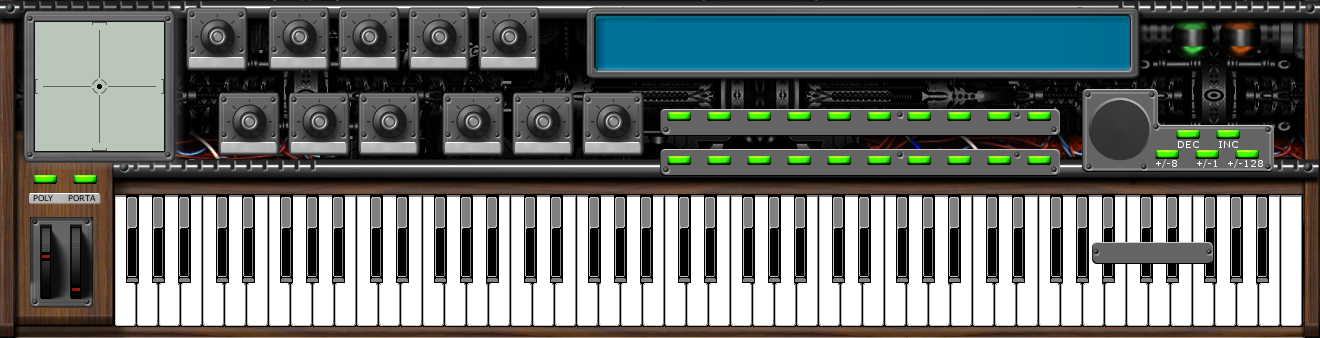
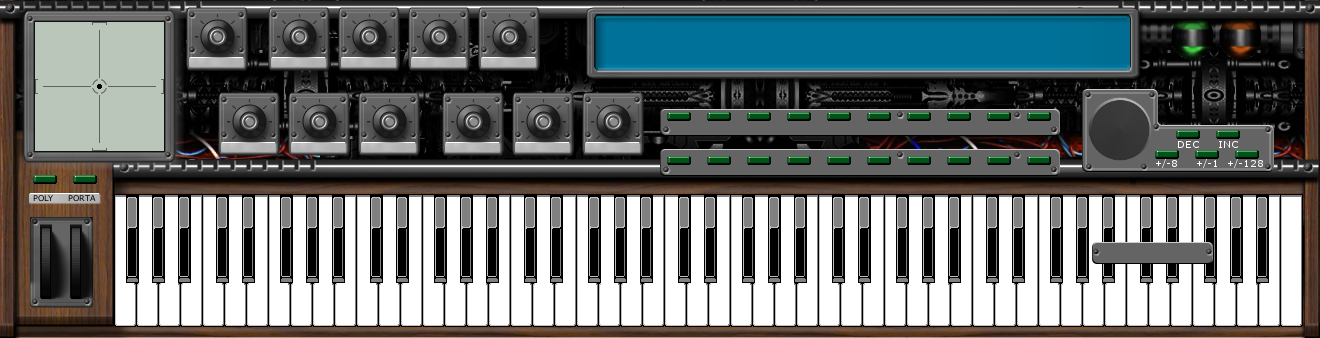
Work-in-progress on CommandCentre graphics and positioning.

diff --git a/code/lunar_prolog_control_panel.cpp b/code/lunar_prolog_control_panel.cpp
@@ -229,18 +229,18 @@ public:
 	program7 (point (947.0, 156.0), 107, resources, active),
 	program8 (point (987.0, 156.0), 108, resources, active),
 	program9 (point (1027.0, 156.0), 109, resources, active),
-	sub_one (point (1040.0, 140.0), 302, resources, active),
-	add_one (point (1080.0, 140.0), 301, resources, active),
-	delta_1 (point (1020.0, 160.0), 303, resources, active),
-	delta_8 (point (1060.0, 160.0), 304, resources, active),
-	delta_128 (point (1100.0, 160.0), 305, resources, active),
-	encoder (point (944.0, 110.0), 401, resources, active),
+	sub_one (point (1175.0, 140.0), 302, resources, true),
+	add_one (point (1215.0, 140.0), 301, resources, true),
+	delta_1 (point (1155.0, 160.0), 303, resources, true),
+	delta_8 (point (1195.0, 160.0), 304, resources, true),
+	delta_128 (point (1235.0, 160.0), 305, resources, true),
+	encoder (point (1100.0, 100.0), 401, resources, true),
 	pitch (point (42.0, 228.0), 501, true, resources, false),
 	modulation (point (72.0, 228.0), 502, false, resources, true),
 	poly_mono (point (33.0, 175.0), 503, resources, active),
 	porta_on_off (point (73.0, 175.0), 504, resources, active),
-	store (point (1040.0, 110.0), 601, resources, true),
-	restore (point (1080.0, 110.0), 602, resources, true)
+	store (point (1240.0, 110.0), 601, resources, true),
+	restore (point (1280.0, 110.0), 602, resources, true)
 	{
 		command_centre_image = resources != 0 ? resources -> command_centre : 0;
 		pitch . position = 0.5;
@@ -500,7 +500,7 @@ bool control_panel_class :: code (PrologElement * parameters, PrologResolution *
 	if (atom -> isVar ()) atom -> setAtom (new PrologAtom ());
 	if (! atom -> isAtom ()) return false;
 	if (atom -> getAtom () -> getMachine () != 0) return false;
-	control_panel_action * machine = new control_panel_action (resources, root, directory, atom -> getAtom (), command -> getAtom (), true);
+	control_panel_action * machine = new control_panel_action (resources, root, directory, atom -> getAtom (), command -> getAtom (), false);
 	if (! atom -> getAtom () -> setMachine (machine)) {delete machine; return false;}
 	g_idle_add ((GSourceFunc) CreateControlPanelIdleCode, machine);
 	return true;

diff --git a/code/graphic_resources.cpp b/code/graphic_resources.cpp
@@ -200,6 +200,7 @@ void knob_active_graphics :: draw (cairo_t * cr) {
 		cairo_set_source_surface (cr, knob_handle_png, position . x, position . y);
 		cairo_paint (cr);
 	}
+	if (knob_surface_png == 0) return;
 	char command [16];
 	sprintf (command, "%i", (int) (angle * 128.0 - 64.0));
 	cairo_set_font_size (cr, 10);
